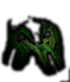
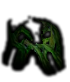
PUSH

Changed region(s): [[0.8286, 0.8049, 1.0, 1.0]]

diff --git a/Game/MainScreen/CreateBoard/tilemodifier.js b/Game/MainScreen/CreateBoard/tilemodifier.js
@@ -178,8 +178,9 @@ tileModifier.prototype.draw = function(context, canvas) {
 		if (this.stats.hidden != undefined && this.stats.hidden == true) { var revealed = false; 
 			for (var t = 0; t < this.tileList[i].revealList.length; t++) { if (this.tileList[i].revealList[t].alliance == "ally") { revealed = true; break; } } }
 			
-		if (this.stats.hidden == undefined || this.stats.hidden != undefined && this.stats.hidden == true && revealed == true || this.sourceUnit == "ally") {
-		context.drawImage(returnTileImage(this.name), this.tileList[i].ThisRectangle.x, this.tileList[i].ThisRectangle.y, this.tileList[i].ThisRectangle.width, this.tileList[i].ThisRectangle.height); }
+		if (this.stats.hidden == undefined || this.stats.hidden != undefined && revealed == true || this.sourceUnit.alliance == "ally") {
+		if (returnTileImage(this.name) != null) {
+		context.drawImage(returnTileImage(this.name), this.tileList[i].ThisRectangle.x, this.tileList[i].ThisRectangle.y, this.tileList[i].ThisRectangle.width, this.tileList[i].ThisRectangle.height); } }
 		
 		context.globalAlpha = 1; 
 		}

diff --git a/Game/Game.js b/Game/Game.js
@@ -115,8 +115,8 @@
 			case "Energy Field": return Images[16];
 			case "Smoke Screen": return Images[18];
 			case "Magma Trap": return Images[19]
-		
 		}
+		return Images[10];
 	}
 	
 	
